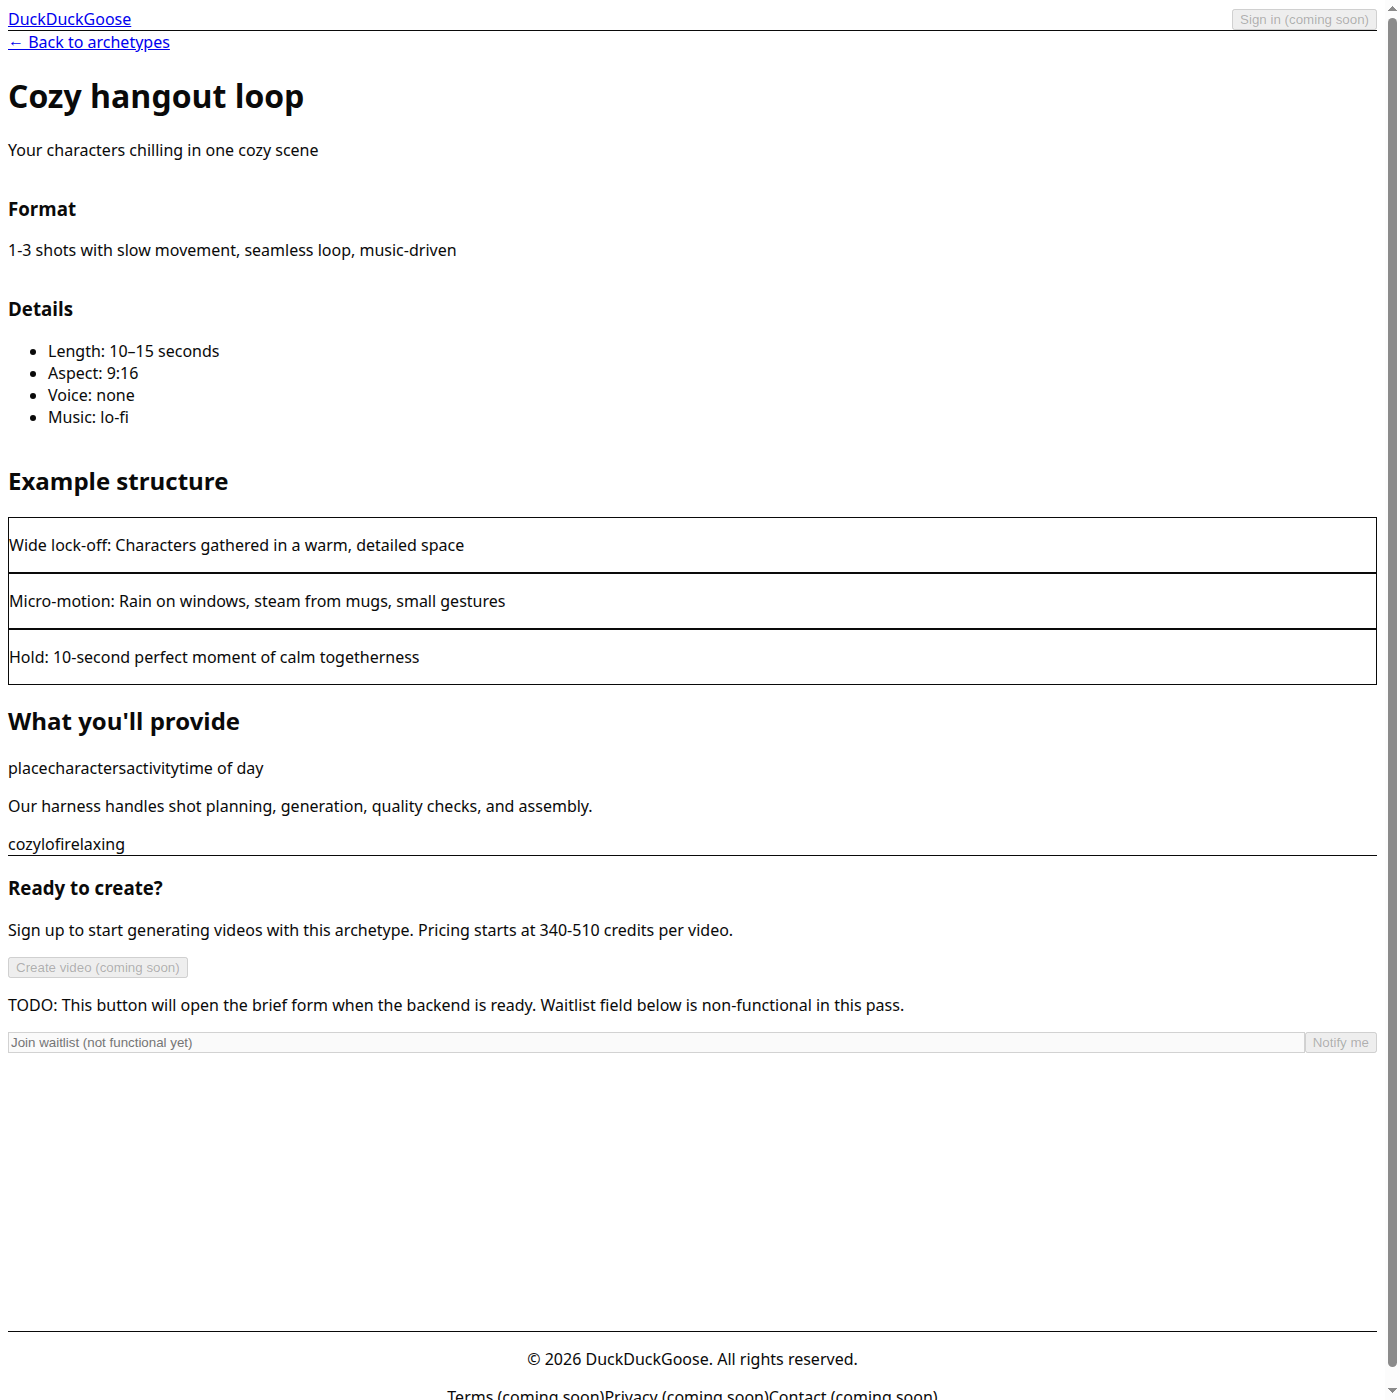
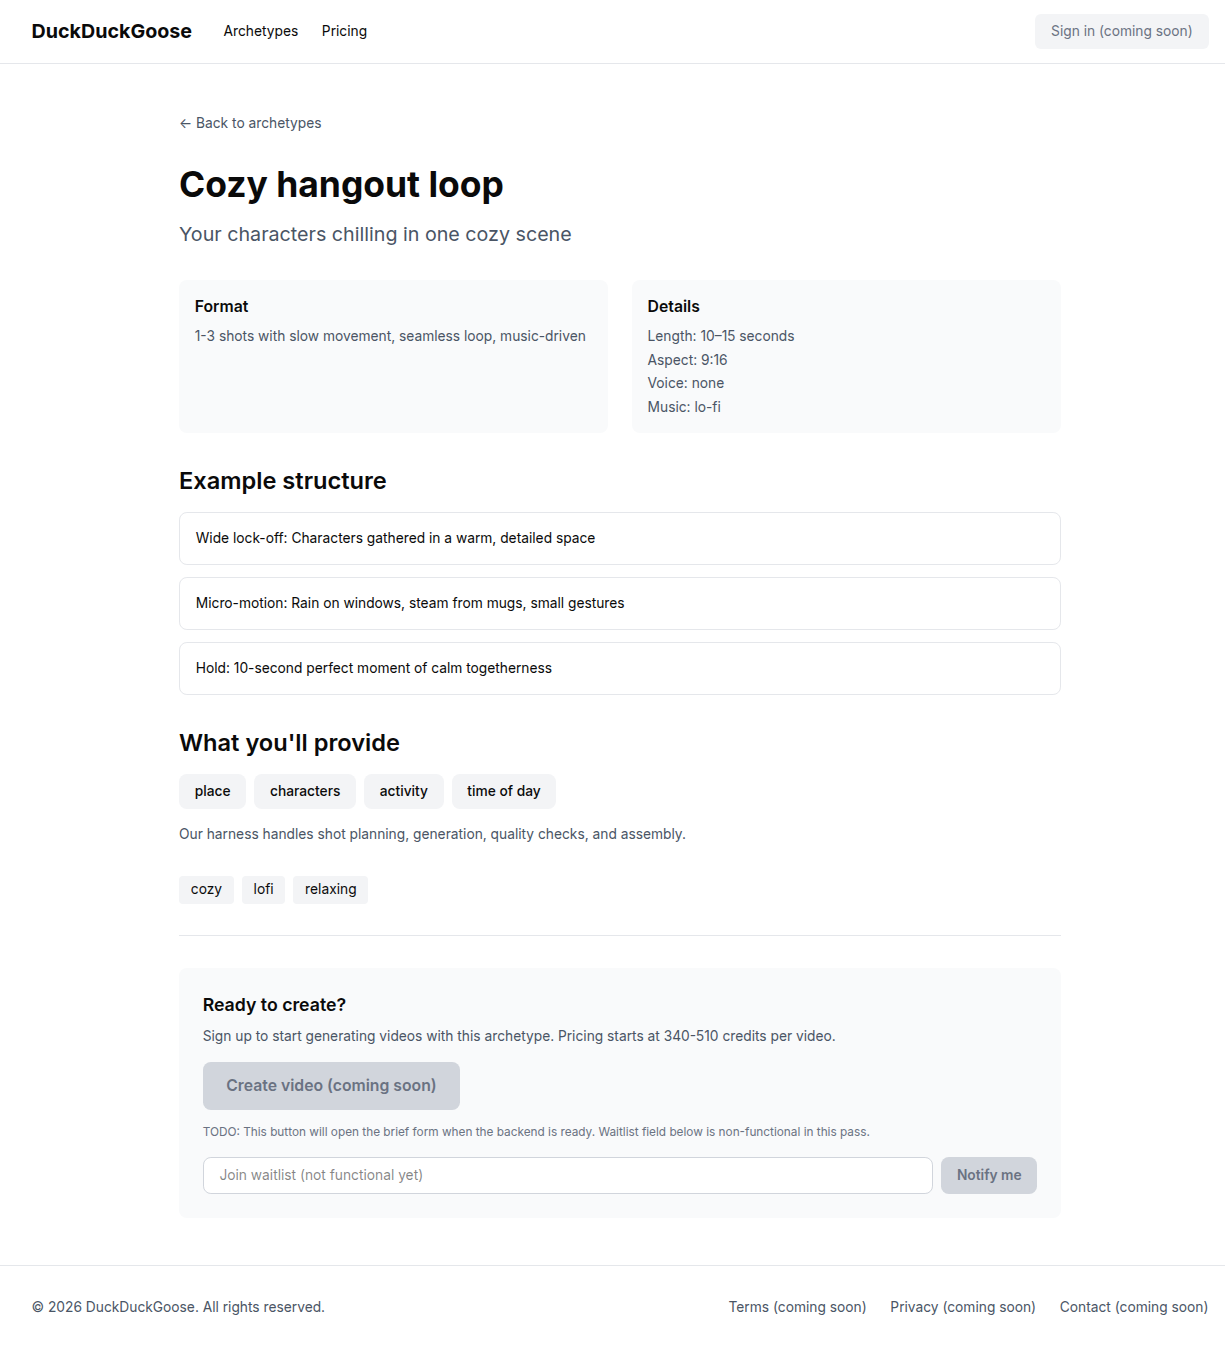
Fix Tailwind v4 styling and update screenshots
- Update globals.css to use @import "tailwindcss" (v4 syntax)
- Replace @tailwind directives with proper v4 imports
- Replace @layer with @utility for custom utilities
- Recapture all 4 screenshots from production build
- Remove Next.js dev indicator from screenshots
- Verify proper styling: gradients, grids, tags, typography
- Remove auto-generated AGENTS.md and CLAUDE.md

diff --git a/web/app/globals.css b/web/app/globals.css
@@ -1,6 +1,4 @@
-@tailwind base;
-@tailwind components;
-@tailwind utilities;
+@import "tailwindcss";
 
 :root {
   --background: #ffffff;
@@ -21,8 +19,6 @@ body {
   font-feature-settings: "rlig" 1, "calt" 1;
 }
 
-@layer utilities {
-  .text-balance {
-    text-wrap: balance;
-  }
+@utility text-balance {
+  text-wrap: balance;
 }
